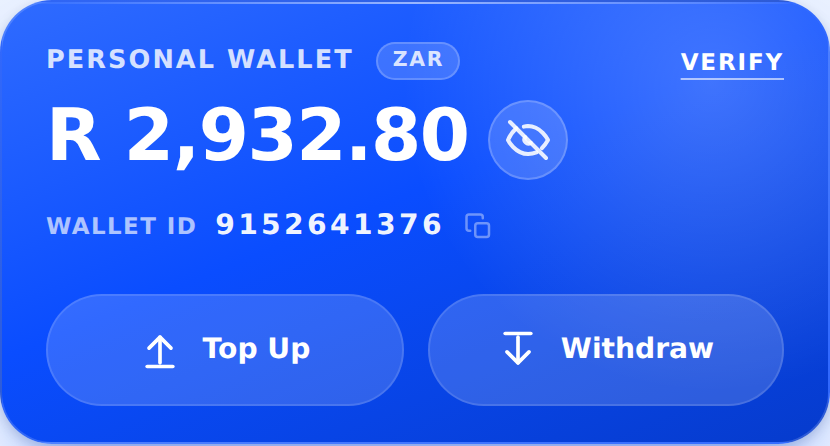
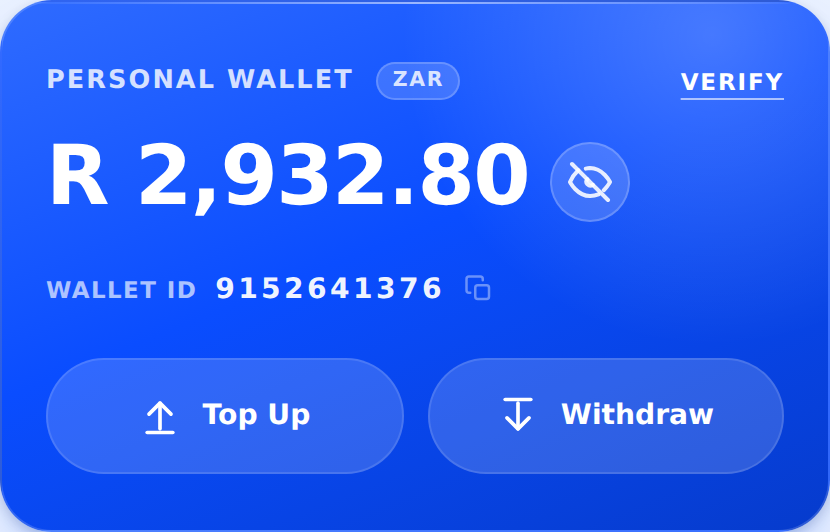
The wallet card was still small on most phones, and here is why
The previous fix restored the card at 390px and did nothing at all on an
iPhone 11, XR, 15 Pro Max or anything else 414px and wider. Measured:

  390px  card 256px   30% of the screen
  414px  card 220px   25%
  430px  card 222px   24%

So a preview rendered at 390px looked correct while the phone it was
being held up against did not. That is exactly what happened, and it is
worth naming: a screenshot at one width is not a check, it is an anecdote.

THE CAUSE was not source order, which is where I looked first. Tall
phones match a fixed-band layout further up the stylesheet whose
selectors are `body:not(.modal-open):has(.dashboard-grid) .wallet-card`.
That is specificity 0,3,1 against the 0,1,0 of a bare class, so it wins
wherever it applies no matter what comes after it — and it deliberately
COMPRESSES the card so the whole dashboard fits without scrolling.

That compression was solving a problem these widths no longer have.
There is slack below the summary card, not a shortage. So the card takes
its height back at the band's own specificity, and every phone width now
lands between 28% and 30% of the screen instead of ranging from 24% to
30%.

This also explains the empty space that was circled on the screenshot,
and shrinks it. On a 430x932 phone the gap between the tiles and the
summary card was about 100px with the compressed card; it is 57px now,
and the card absorbed the difference. What remains is the band anchoring
[…]

diff --git a/pwa/styles.css b/pwa/styles.css
@@ -16113,3 +16113,43 @@ button.is-busy.btn-primary::after {
   .wallet-actions-compact { margin-top: 20px; gap: 12px; }
   .wallet-actions-compact button { min-height: 54px; }
 }
+
+/* THE WALLET CARD ON A TALL PHONE, which is most of them.
+   ---------------------------------------------------------------------------
+   The 480px rule above restored the card's height and did nothing on an
+   iPhone 11, XR, 15 Pro Max or anything else 414px and wider. Those match the
+   fixed-band layout further up this file, whose selectors are
+   `body:not(.modal-open):has(.dashboard-grid) .wallet-card` — specificity
+   0,3,1 against the 0,1,0 of a bare class. Source order never came into it;
+   the band simply won, and it deliberately COMPRESSES the card so the whole
+   dashboard fits without scrolling.
+
+   Measured, because the difference was invisible from the code:
+
+     390px  card 256px   30% of the screen
+     414px  card 220px   25%
+     430px  card 222px   24%
+
+   A preview rendered at 390px therefore looked correct while the phone it was
+   being compared against did not, which is exactly what happened.
+
+   The band's compression was solving a problem that no longer exists on these
+   widths: there is slack below the summary card, not a shortage. So the card
+   takes its height back at the band's own specificity, and every phone width
+   now lands between 28% and 30%. The remaining space below the tiles is the
+   band anchoring the summary near the bottom rather than leaving a void at the
+   end of the screen, which is what it is for. */
+@media (min-width: 360px) and (max-width: 759px) and (min-height: 890px) {
+  body:not(.modal-open):has(.dashboard-grid) .wallet-card {
+    padding: 30px 22px 28px;
+  }
+
+  body:not(.modal-open):has(.dashboard-grid) .wallet-balance {
+    margin: 14px 0 18px;
+    font-size: clamp(2.15rem, 9.6vw, 2.95rem);
+  }
+
+  body:not(.modal-open):has(.dashboard-grid) .wallet-actions button {
+    min-height: 58px;
+  }
+}

diff --git a/pwa/index.html b/pwa/index.html
@@ -89,9 +89,9 @@
       html[data-theme=night] .loader{border-color:#122650;border-top-color:#2e63ff}
       html[data-theme=night] .launch-legal{color:#97a9d0}
     </style>
-    <script src="./head-boot.js?v=510"></script>
-    <noscript><link rel="stylesheet" href="./styles.min.css?v=510"></noscript>
-    <script src="./app.min.js?v=510" defer></script>
+    <script src="./head-boot.js?v=511"></script>
+    <noscript><link rel="stylesheet" href="./styles.min.css?v=511"></noscript>
+    <script src="./app.min.js?v=511" defer></script>
     <script src="./notification-routing-fix.js?v=1" defer></script>
   </head>
   <body>

diff --git a/pwa/styles.min.css b/pwa/styles.min.css
@@ -789,3 +789,9 @@ html[data-theme=night] .mk-poster{border-color:#2c4573}
 .wallet-actions-compact{margin-top:20px;gap:12px}
 .wallet-actions-compact button{min-height:54px}
 }
+/* WALLET CARD ON TALL PHONES. Appended; see styles.css for the reasoning. */
+@media (min-width:360px) and (max-width:759px) and (min-height:890px){
+body:not(.modal-open):has(.dashboard-grid) .wallet-card{padding:30px 22px 28px}
+body:not(.modal-open):has(.dashboard-grid) .wallet-balance{margin:14px 0 18px;font-size:clamp(2.15rem,9.6vw,2.95rem)}
+body:not(.modal-open):has(.dashboard-grid) .wallet-actions button{min-height:58px}
+}

diff --git a/pwa/head-boot.js b/pwa/head-boot.js
@@ -40,11 +40,11 @@
     if (existing) return;
     var link = document.createElement("link");
     link.rel = "stylesheet";
-    link.href = "./styles.min.css?v=510";
+    link.href = "./styles.min.css?v=511";
     link.setAttribute("data-titopay-main-css", "1");
     document.head.appendChild(link);
   } catch (e) {
     /* Last-ditch: a blocking link still beats no styles at all. */
-    document.write('<link rel="stylesheet" href="./styles.min.css?v=510">');
+    document.write('<link rel="stylesheet" href="./styles.min.css?v=511">');
   }
 })();

diff --git a/pwa/service-worker.js b/pwa/service-worker.js
@@ -1,10 +1,10 @@
-const CACHE_NAME = "titopay-pwa-v510-verify-type";
+const CACHE_NAME = "titopay-pwa-v511-verify-type";
 const APP_SHELL = [
   "./",
   "./index.html",
-  "./head-boot.js?v=510",
-  "./styles.min.css?v=510",
-  "./app.min.js?v=510",
+  "./head-boot.js?v=511",
+  "./styles.min.css?v=511",
+  "./app.min.js?v=511",
   "./notification-routing-fix.js?v=1",
   "./services-default.json?v=270",
   "./manifest.webmanifest?v=193",
